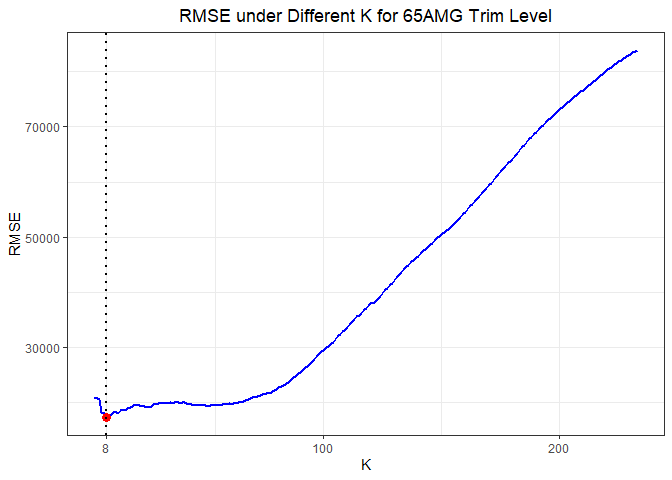
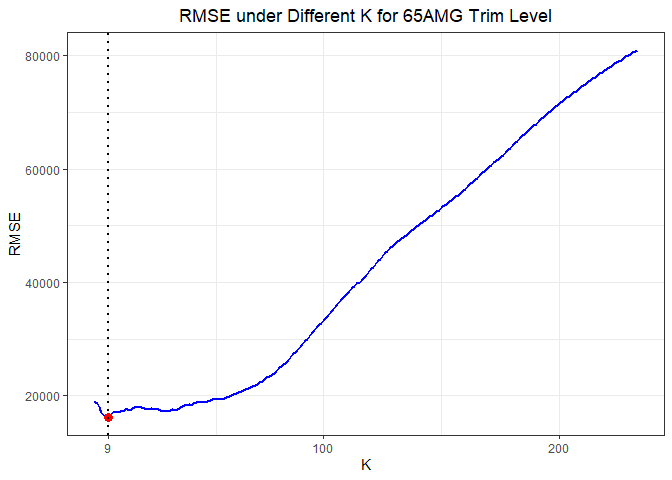
change

diff --git a/Exercise-1.md b/Exercise-1.md
@@ -178,9 +178,9 @@ and then calculate the RMSE (out-of-sample root mean-squared error).
 <img src="Exercise-1_files/figure-gfm/unnamed-chunk-16-1.png" style="display: block; margin: auto;" />
 
     ##    Min. 1st Qu.  Median    Mean 3rd Qu.    Max. 
-    ##    5.00   11.25   14.50   23.78   38.25   70.00
+    ##    5.00   11.00   15.50   24.98   39.50   77.00
 
-    ## [1] 385.6445
+    ## [1] 450.3465
 
 For 350 trim level, we started from K=3 (K=2 results in an error) to
 K=332 (the number of rows in the Train subset). The optimal K is the K
@@ -200,9 +200,9 @@ We did the exact same to 65AMG trim level.
 <img src="Exercise-1_files/figure-gfm/unnamed-chunk-18-1.png" style="display: block; margin: auto;" />
 
     ##    Min. 1st Qu.  Median    Mean 3rd Qu.    Max. 
-    ##    3.00   10.25   19.50   21.82   30.50   63.00
+    ##     3.0     6.0    11.0    14.9    20.5    54.0
 
-    ## [1] 242.2322
+    ## [1] 150.1735
 
 Comparing those two summaries of optimal K for 350 trim level and 65AMG
 trim level, the 350 trim level has higher mean, median, and variance
